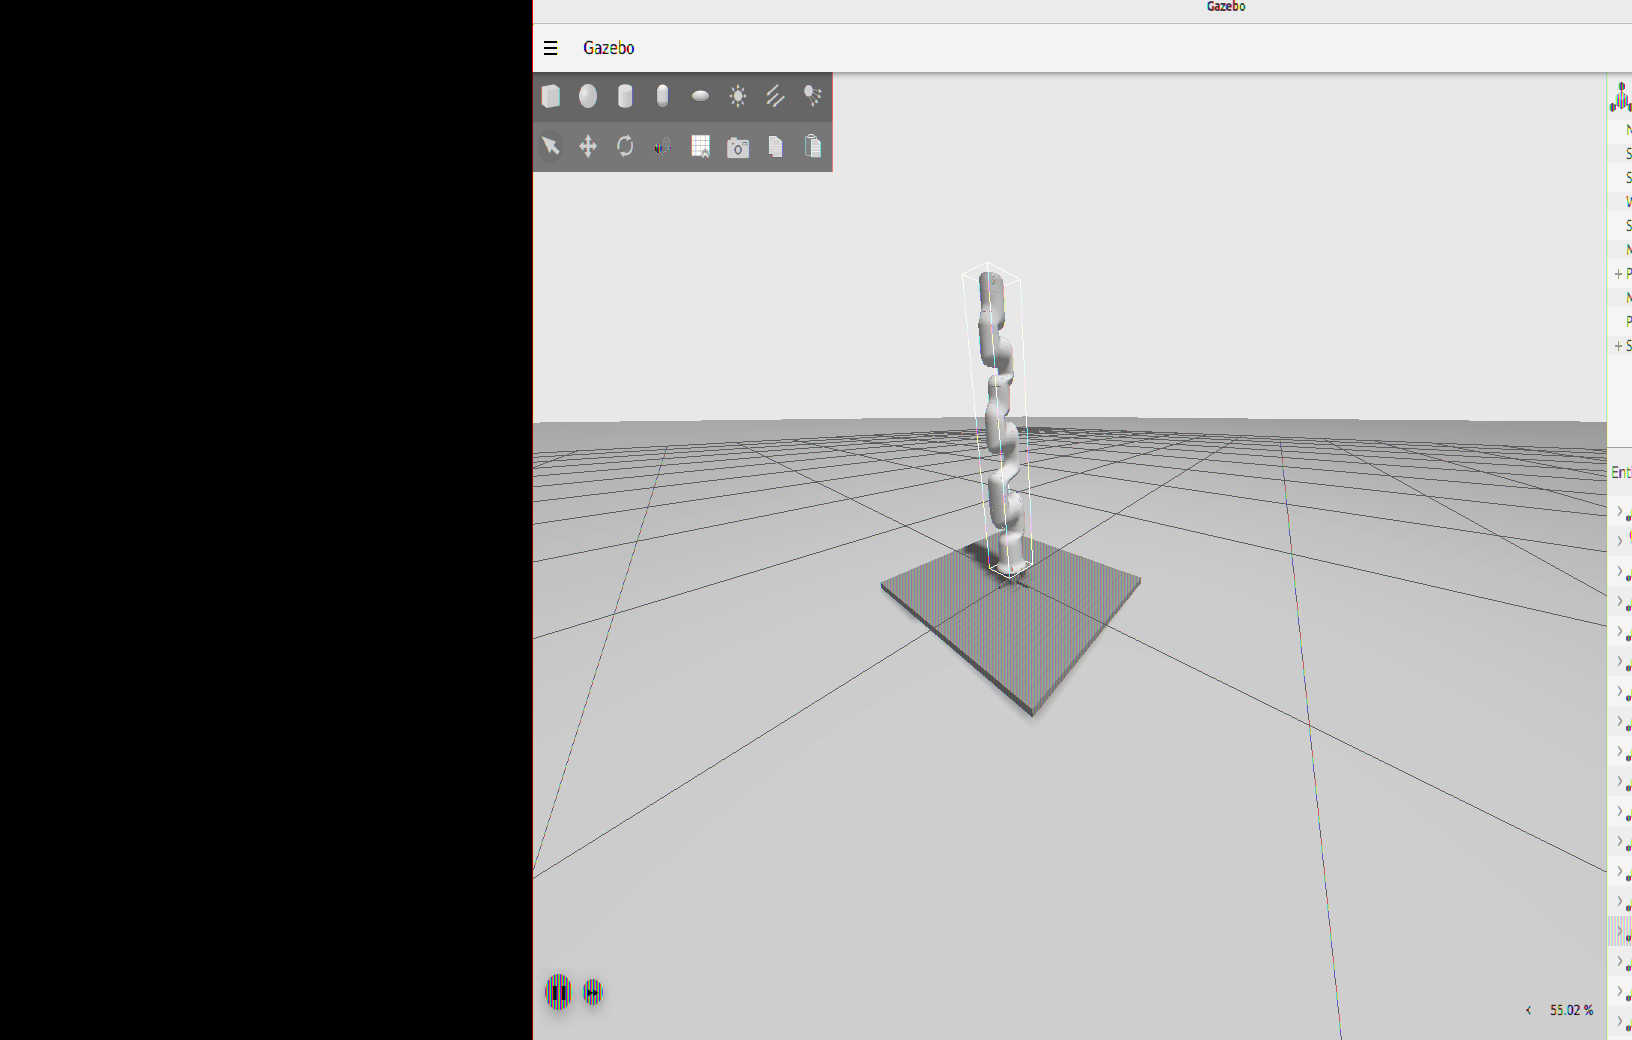
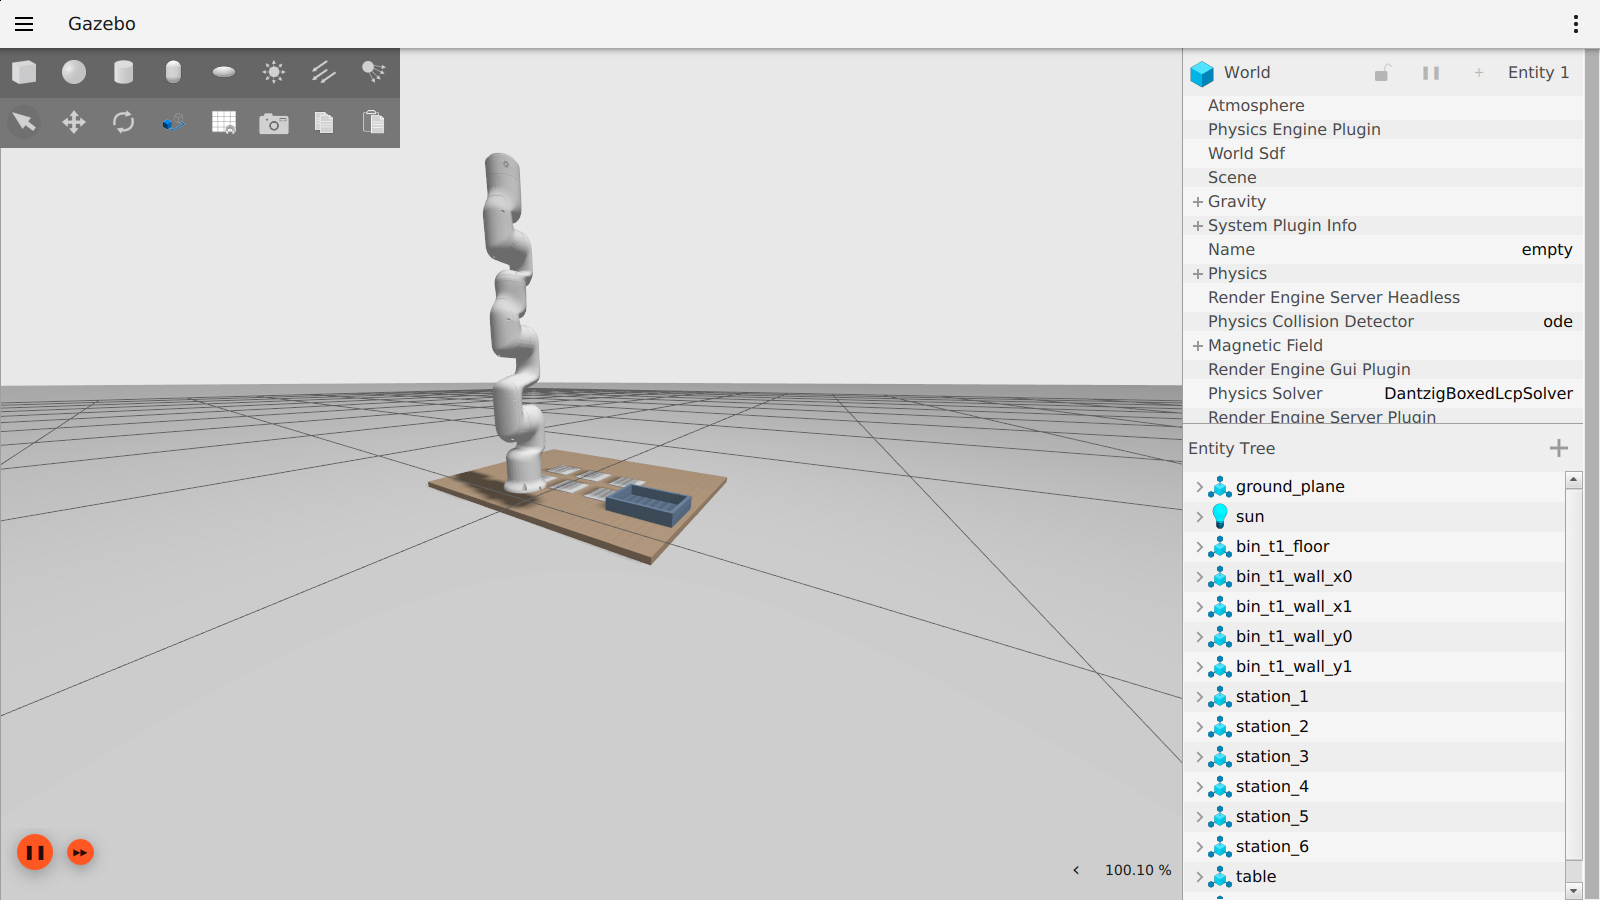
独显是真有的, 用不了独显的是远程桌面
上一轮"本机无 GPU / llvmpipe 画质差"的结论是错的, 照着它加的那个"修复"还是
有害的, 这一并把真结论、真修复和重拍的截图落下来:

- 撤销 `__GLX_VENDOR_LIBRARY_NAME=nvidia` 的注入(setup/glx-vendor.sh 及
  run-*.sh / round.launch.py 里的挂载)。它只是让 glxinfo 和 ogre2.log 改口
  报 NVIDIA, 实际渲染结果送不到屏幕上: `:1001` 是 NoMachine 自己实现的
  X server(nxnode.bin 持有 /tmp/.X11-unix/X1001), NVIDIA 的 GLX 客户端库
  驱动不了它。glxgears 同一台机器对照: 不设 -> 正常画出齿轮; 设了 -> 全黑。
- 新增 setup/xorg-gpu.sh(start/status/stop): 起一个无头 Xorg, 让 OpenGL
  真正走独显。GPU 上没接显示器也能起(AllowEmptyInitialConfiguration +
  UseDisplayDevice none), 实测 direct rendering: Yes, OpenGL 4.6,
  RTX 5060 Ti, 16311 MiB。
- 截图里那层"竖条纹"与渲染无关, 是 verification/xwd2png.py 的解析 bug:
  它按 bytes_per_line 而不是 bits_per_pixel 判断每像素几字节, 把 3 字节的
  数据当 4 字节读, 整张图横向错位。改成按 bits_per_pixel 取宽、从文件尾
  倒推像素起点(跳过调色板段); 同一份 .xwd 用 ImageMagick 解本来就干净。
- 补上一直没提交的 gz_scene.py 位姿合成修复: /get_planning_scene 读回来的
  CollisionObject 已把位姿折进 obj.pose 且 primitive_poses 清零, 不合成的话
  场地几何全落在世界原点。
- 按实测补文档: Gazebo 线复测 3/6 / 237.3s(失败是 MoveIt CONTROL_FAILED,
  不是规划失败), 所以它适合演示真物理、不适合判分; 以及 round.launch.py
  一起起参考实现时只有 60s 等题窗口这个坑。
- screenshots/08、09 换成重拍的干净图。

diff --git a/verification/xwd2png.py b/verification/xwd2png.py
@@ -1,9 +1,20 @@
 #!/usr/bin/env python3
-"""把 xwd 抓屏转成 PNG(本机没有 ImageMagick, 用 PIL 手写解析)。
+"""把 xwd 抓屏转成 PNG(不依赖 ImageMagick, 用 PIL 手写解析)。
 
 用法:
   xwd -root -display :0 -silent > /tmp/shot.xwd
   python3 xwd2png.py /tmp/shot.xwd /tmp/shot.png
+
+装了 ImageMagick 的话 `import -window <wid> shot.png` 更省事, 本脚本留给
+没装 ImageMagick 的机器。
+
+历史坑(2026-09 修): 早期版本拿 ``bytes_per_line`` 去猜"每像素几字节"
+(``bpl >= w*4`` 就当 4 字节), 而 xwd 写出来的这两个字段是可以不一致的 ——
+本机抓 1000x845 的窗口时是 ``bits_per_pixel=24`` 但 ``bytes_per_line=4000``,
+于是按 4 字节去读一份 3 字节的数据, 整张图被横向拉伸错位, 抓出来的画面带
+周期约 3px 的彩色竖条纹。这个假象曾被误判成"软渲染的画面瑕疵", 其实同一份
+.xwd 用 ImageMagick 解出来是干净的。现在改成按 ``bits_per_pixel`` 取宽度,
+并且从文件尾倒推像素起点(跳过窗口名段与调色板段)。
 """
 import struct
 import sys
@@ -18,19 +29,27 @@ def read_xwd(path):
         try:
             header = struct.unpack(endian + "25I", data[:100])
             (header_size, _ver, _fmt, depth, w, h, _xoff, _byte_order,
-             _bitmap_unit, _bitmap_bit_order, _bitmap_pad, _bpp, bpl, *_rest) = header
+             _bitmap_unit, _bitmap_bit_order, _bitmap_pad, bpp, bpl,
+             _vclass, _rmask, _gmask, _bmask, _bits_rgb, _cmap_entries,
+             ncolors, *_rest) = header
             if not (100 <= w <= 20000 and 100 <= h <= 20000 and 0 < bpl <= w * 8):
                 continue
-            pixels = data[header_size:header_size + w * h * bpl]
-            if bpl >= w * 4:
-                arr = (np.frombuffer(pixels, dtype=np.uint8)[:h * bpl]
-                       .reshape(h, bpl)[:, :w * 4].reshape(h, w, 4)[:, :, :3])
-            elif bpl >= w * 3:
-                arr = (np.frombuffer(pixels, dtype=np.uint8)[:h * bpl]
-                       .reshape(h, bpl)[:, :w * 3].reshape(h, w, 3))
-            else:
+            nbytes = bpp // 8
+            if nbytes not in (3, 4) or bpl < w * nbytes:
                 continue
-            print(f"{'LSB' if endian == '<' else 'MSB'} depth={depth} {w}x{h} bpl={bpl}")
+            # 像素起点: 头部之后还可能跟着 XWD v7 的窗口名段和调色板段。
+            # 它们的长度都写在头部里, 但从文件尾倒推 h*bpl 字节更省事。
+            off = len(data) - h * bpl
+            if off < header_size:
+                off = header_size + ncolors * 12
+            if off < 0 or off + h * bpl > len(data):
+                continue
+            arr = (np.frombuffer(data, dtype=np.uint8, count=h * bpl, offset=off)
+                   .reshape(h, bpl)[:, :w * nbytes]
+                   .reshape(h, w, nbytes)[:, :, :3])
+            print(f"{'LSB' if endian == '<' else 'MSB'} depth={depth} "
+                  f"{w}x{h} bpl={bpl} bpp={bpp}")
+            # xwd 里通道是 BGR 序, PIL 要 RGB
             return Image.fromarray(arr[:, :, ::-1].copy())
         except Exception:  # noqa: BLE001
             continue

diff --git a/jaka_competition_kit/jaka_competition_kit/gz_scene.py b/jaka_competition_kit/jaka_competition_kit/gz_scene.py
@@ -172,15 +172,31 @@ class GazeboSceneMirror(Node):
     def _ingest(self, msg: PlanningScene) -> None:
         target: Dict[str, Item] = {}
 
-        def add(obj_id: str, prim, pose_holder, frame_id: str) -> None:
+        def add(obj_id: str, prim, pose_holder, frame_id: str,
+                obj_pose=None) -> None:
             geom, half = _geometry(prim)
             if geom is None:
                 return
             p = pose_holder
-            pose = self._to_world(frame_id,
-                                  (p.position.x, p.position.y, p.position.z),
-                                  (p.orientation.x, p.orientation.y,
-                                   p.orientation.z, p.orientation.w))
+            # ⚠ 踩过的坑: ``moveit_msgs/CollisionObject`` 里 ``pose`` 是物体
+            # 自身的位姿, ``primitive_poses`` 是**相对它**的。从
+            # ``/get_planning_scene`` 读回来时 MoveIt 已经把位姿折叠进
+            # ``CollisionObject.pose``、并把 ``primitive_poses`` 清零 ——
+            # 只看 ``primitive_poses`` 的话每个场地几何都会落在世界原点:
+            # 台面/工位板/料盒/工件全部叠在基座底下, Gazebo 画面里除了机械臂
+            # 什么都看不见(而且它们还会把地面一起压下去)。
+            base_pos = (0.0, 0.0, 0.0)
+            base_quat = (0.0, 0.0, 0.0, 1.0)
+            if obj_pose is not None:
+                base_pos = (obj_pose.position.x, obj_pose.position.y,
+                            obj_pose.position.z)
+                base_quat = (obj_pose.orientation.x, obj_pose.orientation.y,
+                             obj_pose.orientation.z, obj_pose.orientation.w)
+            pos, quat = _compose(base_pos, base_quat,
+                                 (p.position.x, p.position.y, p.position.z),
+                                 (p.orientation.x, p.orientation.y,
+                                  p.orientation.z, p.orientation.w))
+            pose = self._to_world(frame_id, pos, quat)
             if pose is None:
                 return
             name = self._prefix + obj_id
@@ -189,14 +205,14 @@ class GazeboSceneMirror(Node):
         for obj in msg.world.collision_objects:
             if obj.primitives and obj.primitive_poses:
                 add(obj.id, obj.primitives[0], obj.primitive_poses[0],
-                    obj.header.frame_id)
+                    obj.header.frame_id, obj.pose)
 
         # 已抓取的工件: 位姿是相对末端连杆的, 要过一遍 TF
         for aco in msg.robot_state.attached_collision_objects:
             obj = aco.object
             if obj.primitives and obj.primitive_poses:
                 add(obj.id, obj.primitives[0], obj.primitive_poses[0],
-                    aco.link_name)
+                    aco.link_name, obj.pose)
 
         self._target = target
 

diff --git a/verification/README.md b/verification/README.md
@@ -79,11 +79,28 @@ ros2 service call /competition/start std_srvs/srv/Trigger "{}"
 - `screenshots/08-gazebo-arena-mirrored.png` 场地已镜像进 Gazebo
 - `screenshots/09-gazebo-arena-running.png` 参考实现在 Gazebo 物理里执行中
 
-⚠ 两个坑记在这里:
+> `round.launch.py` 默认会把参考实现一起起起来, 但它**只等题目 60 s**
+> (`reference.py` 的 `wait_for_scene`)。Gazebo 那条线光起服务器 + 镜像就要
+> 几十秒, 很容易还没来得及调 `/competition/generate` 它就自己退了, 日志里是
+> `没有收到题目: 先调 /competition/generate`。要跑 Gazebo 线就加
+> `run_reference:=false`, 等镜像完再手动 `ros2 run jaka_competition_kit ref_track1`。
 
-1. 本机无 GPU, Gazebo 走 llvmpipe 软渲染, **运行时 spawn 的几何有竖条纹
-   瑕疵**(机械臂本体正常)。已排除抓图工具和阴影两个原因。有独显不会这样。
+⚠ 三个坑记在这里:
+
+1. 第一版截图里 **运行时 spawn 的几何有竖条纹瑕疵**(机械臂本体正常), 当时
+   归因成"软渲染画质差"。**不是** —— 那是 `xwd2png.py` 自己的解析 bug: 它按
+   `bytes_per_line` 而不是 `bits_per_pixel` 判断每像素几字节, 于是把 3 字节的
+   数据当 4 字节读, 整张图横向错位。同一份 `.xwd` 用 ImageMagick 解出来是干净的,
+   在软渲染和独显上都一样。解析器已修, `screenshots/08`、`09` 已重拍。
+   详见 `docs/Gazebo仿真.md` 第 4.3 节。
 2. Gazebo 线耗时 ≈ 假硬件线 × 2, **限时不能跨线复用**。
+3. **Gazebo 线跑不满 6/6**, 而且不稳定。2026-09 复测: 同一 seed(246135)、
+   同一命令下跑出 `3/6, 237.3s`, 失败集中在 `[4/6]` 之后, 报
+   `FAIL(error_code=-4)`(MoveIt 的 `CONTROL_FAILED`, 不是规划失败),
+   连带 `recover`/复位到 home 也一起失败。另外还有零星的
+   `末端在 3.0s 内没有到位(容差 2mm)` 告警。假硬件线(RViz)则是稳定的
+   6/6 —— 所以 Gazebo 这条线目前只适合"看画面 / 演示真物理", **不适合判分**,
+   要判分还是走假硬件线。这个没查下去, 谁接谁往下挖。
 
 ## 四、其他两个脚本
 

diff --git a/setup/README.md b/setup/README.md
@@ -15,6 +15,14 @@ bash setup/run-rviz-sim.sh     # 纯 RViz 仿真(假硬件, 无需 Gazebo)
 bash setup/run-gazebo-sim.sh   # Gazebo 物理仿真
 ```
 
+想让 Gazebo 真的走独显(默认的远程桌面会话用不了独显, 见下面第 6 条):
+
+```bash
+bash setup/xorg-gpu.sh start :0
+DISPLAY=:0 ros2 launch jaka_competition_kit round.launch.py world:=gazebo
+bash setup/xorg-gpu.sh stop :0
+```
+
 ## 为什么必须有第 2 步
 
 仓库里的 `jaka_ros2/src/jaka_minicobo_moveit_config/launch/demo.launch.py`
@@ -72,3 +80,10 @@ ROS 1 插件名,RViz2 会全部报
 **5. `warehouse_ros_mongo` 没有对应 apt 包。**
 本次用 `ros-humble-moveit-ros-warehouse` 替代。只有 `db:=true` 的
 warehouse 功能会受影响,仿真和规划不受影响。
+
+**6. 默认的远程桌面会话里 OpenGL 只能走 Mesa 软渲染。**
+这台机器有 RTX 5060 Ti, 但 `:1001` 不是 Xorg —— `nxnode.bin` 自己就是那个
+X server, NVIDIA 的 GLX 客户端库驱动不了它。强行设
+`__GLX_VENDOR_LIBRARY_NAME=nvidia` 会让 `glxinfo` 改口报 NVIDIA, 但
+**所有 GL 窗口(含 Gazebo 的 3D 视口)全黑**。要用独显就
+`bash setup/xorg-gpu.sh start`, 详见 `docs/Gazebo仿真.md` 第 4 节。

diff --git a/README.md b/README.md
@@ -73,8 +73,9 @@ Gazebo 默认只有一个空世界(`empty.sdf`), 赛场几何是**不会**自动
 > ⚠ **两条线的耗时差近一倍**, 见下表。**判分用哪条线, 限时就只能按哪条线标定** ——
 > 混用会把参考实现自己判成超时。
 >
-> ⚠ 本机无 GPU, Gazebo 走 llvmpipe 软渲染, 运行时创建的几何会有竖条纹瑕疵;
-> 投大屏请用带独显的机器。
+> ⚠ 默认的远程桌面会话里 OpenGL 只能走 Mesa 软渲染 —— 这台机器有 RTX 5060 Ti,
+> 但 `:1001` 是 NoMachine 自己的 X server, 独显驱动不了它。想真用上独显:
+> `bash setup/xorg-gpu.sh start`, 原理和验证见 `docs/Gazebo仿真.md` 第 4 节。
 
 细节、机位命令和踩过的坑: `docs/Gazebo仿真.md`。
 

diff --git a/jaka_competition_kit/README.md b/jaka_competition_kit/README.md
@@ -56,8 +56,9 @@ ros2 launch jaka_competition_kit gazebo_mirror.launch.py
 > 因为假硬件模式轨迹瞬间到位、Gazebo 要按真实速度走。
 > **判分用哪条线, 限时就得按哪条线重新标定**, 不能混用。
 >
-> ⚠ 无独显的机器上 Gazebo 走 llvmpipe 软渲染, 运行时创建的几何会有
-> 竖条纹瑕疵; 投大屏请用带 GPU 的机器。
+> ⚠ 默认的远程桌面会话里 OpenGL 只能走 Mesa 软渲染(独显在 `:1001` 上用不了,
+> 因为那个 X server 是 NoMachine 自己实现的)。想真用上独显:
+> `bash setup/xorg-gpu.sh start`, 见 `docs/Gazebo仿真.md` 第 4 节。
 >
 > 细节见 `docs/Gazebo仿真.md`。
 
